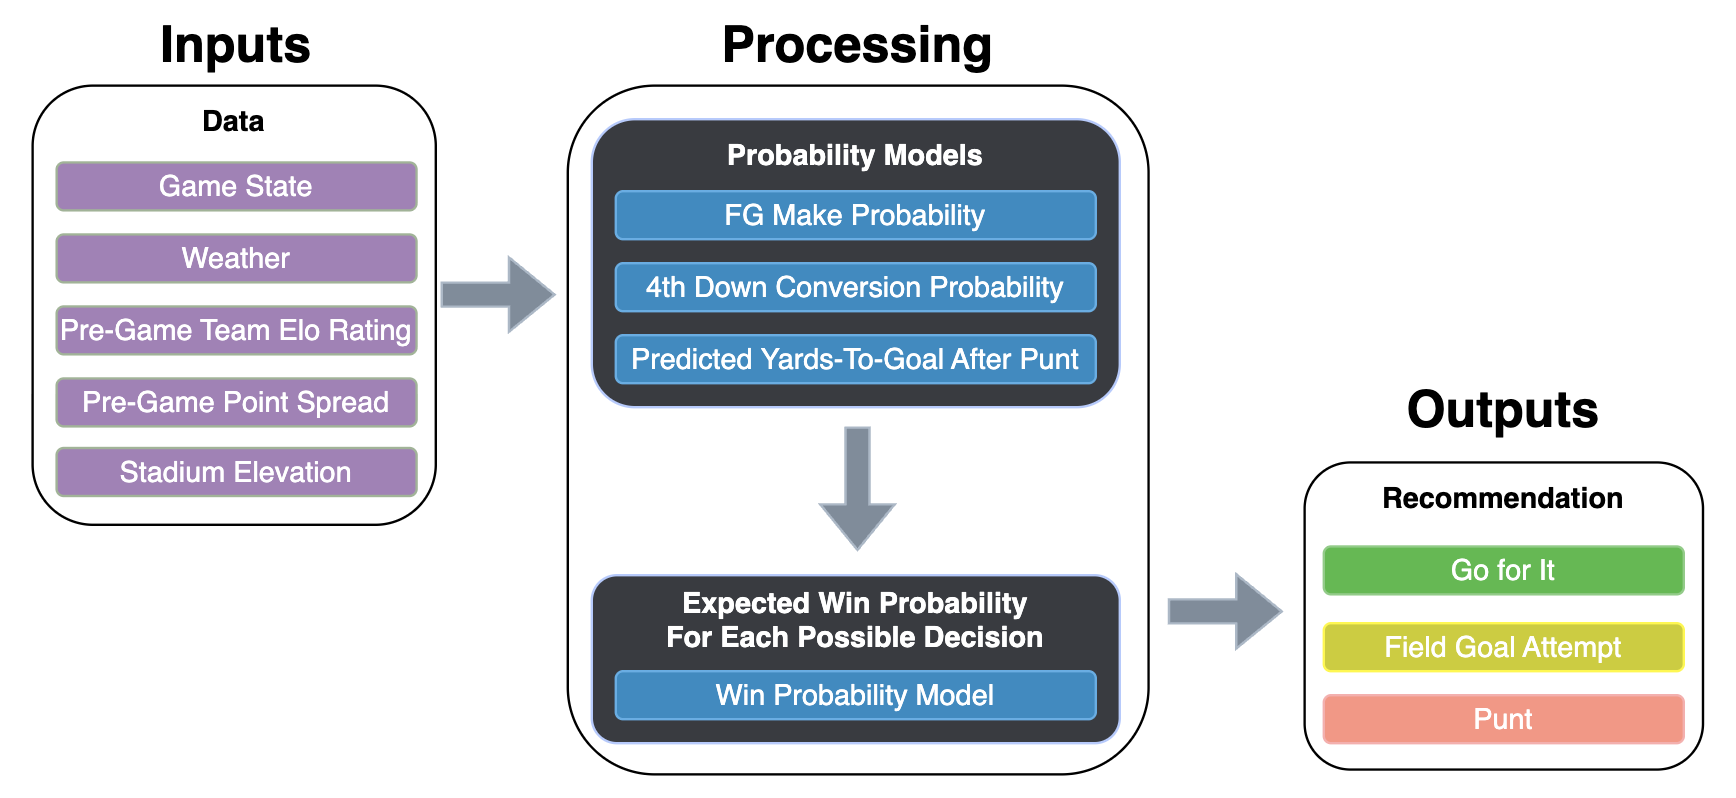
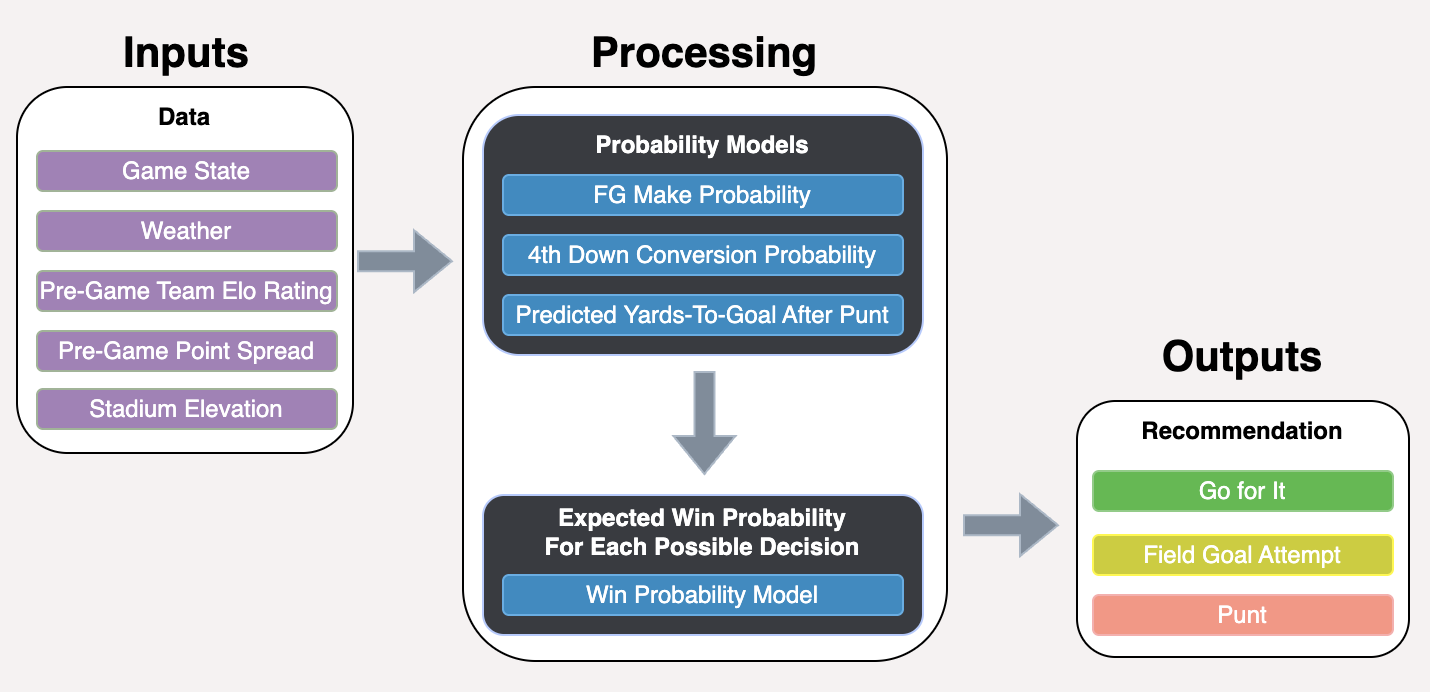
about page image style changes

diff --git a/pages/about.py b/pages/about.py
@@ -188,6 +188,8 @@ layout = dbc.Container(
                         "max-width": "600px",
                         "height": "auto",
                         "display": "block",
+                        "margin": "0 auto",
+                        "box-sizing": "border-box",
                         "padding-left": CONFIG["padding-left"],
                         "padding-right": CONFIG["padding-right"],
                     },
